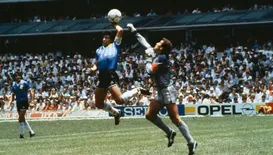
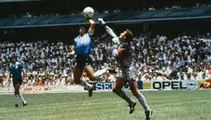
alterando tamanho dos arquivos de imagems desktop

diff --git a/index.html b/index.html
@@ -734,7 +734,7 @@
                                         </h3>
                                         <figure>
                                             <img
-                                                src="https://cdn.atarde.com.br/img/Editoria-Destaque/1390000/273x156/concha-a-moeda-que-mudou-destino-de-pescadores-e-d0139399400202607031206/scaleDownOutsideFillBackground-1.webp?fallback=https%3A%2F%2Fcdn.atarde.com.br%2Fimg%2FEditoria-Destaque%2F1390000%2Fconcha-a-moeda-que-mudou-destino-de-pescadores-e-d0139399400202607031206.jpg%3Fxid%3D7138906&xid=7138906"
+                                                src="atr_home_imagens/imagens/scaleDownOutsideFillBackground-1 (1).webp"
                                                 alt="foto materia"
                                             />
                                         </figure>
